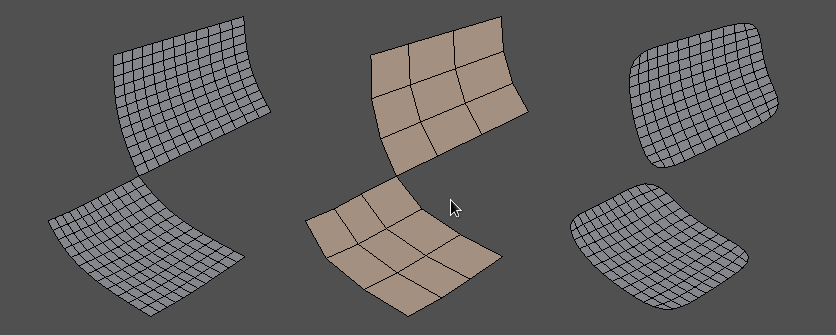
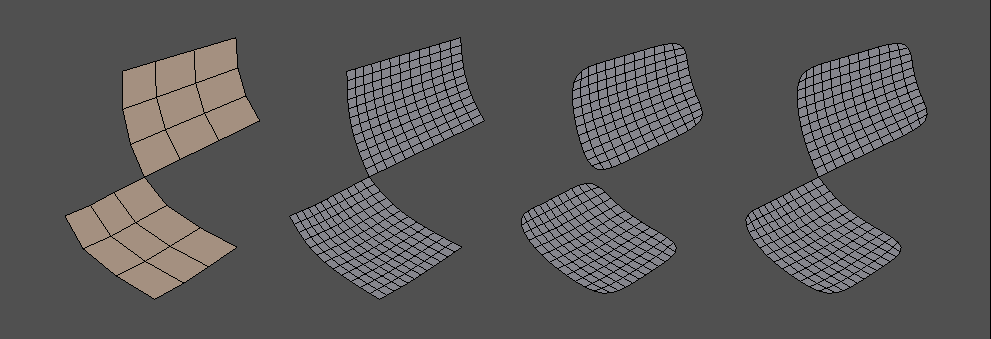
Updates to Compatibility page of documentation:     - completed RenderMan differences (FVar with creasing, chaikin, accuracy)     - revised diagram for "bowtie vertex" case with smooth corners     - amended FVar section with diagrams illustrating "corners only" vs "plus1"

diff --git a/documentation/compatibility.rst b/documentation/compatibility.rst
@@ -92,7 +92,8 @@ linear where specified by the choice applied.
 All five of Hbr's original modes of face-varying interpolation are supported
 (with minor modifications where Hbr was found to be incorrect in the presence
 of semi-sharp creasing).  An additional mode ("corners only") has also been
-added to avoid some of the undesired side-effects of some existing modes.
+added to avoid some of the undesired side-effects of some existing modes
+(illustrated below).
 
 The new values for the *"Sdc::Options::FVarLinearInterpolation"* enum and its
 equivalents for HbrMesh's InterpolateBoundaryMethod and PropagateCorners flag
@@ -116,12 +117,45 @@ is not affected by changes to other regions that may share the same vertex. So
 the behavior of a disjoint region should be well understood and predictable
 when looking at it in isolation (e.g. with "corners only" one would expect to
 see linear constraints applied where there are topological corners or infinitely
-sharp creasing applied within the region, and nowhere else).  This is not true
-of the "plus" modes, and they are named to reflect the fact that more is taken
-into account where disjoint regions meet.
+sharp creasing applied within the region, and nowhere else).
 
-Differences between the modes can be seen in the regression shapes with the
-prefix "catmark_fvar" -- which were specifically created for that purpose.
+This is not true of the "plus" modes, and they are named to reflect the fact
+that more is taken into account where disjoint regions meet.
+
+The following example illustrates some undesired effects of the "plus" modes,
+which in part motivated the addition of the new "corners only" mode.  The
+example uses the "catmark_fvar_bound0" and "catmark_fvar_bound1" shapes from
+the suite of regression shapes.  Both shapes are a simple regular 4x4 grid of
+quads with face-varying UV data partitioned into multiple disjoint regions.
+The "bound0" shape has two disjoint UV regions -- an upper and lower region --
+while the "bound1" shape further splits the lower region in two.
+
+This first figure illustrates the effect of the original "plus1" mode (which
+is also the same for "plus2"):
+
+.. image:: images/fvar_corners_plus1.png
+   :align: center
+   :width: 60%
+   :target: images/fvar_corners_plus1.png
+
+Note that the effect of splitting the lower UV region in two has the undesired
+side effect of sharpening the boundary of the upper region.  This is the result
+of the "plus1" mode making collective decisions about the sharpness of all
+face-varying boundaries at the vertex rather than decisions local to each
+region.  In both the "plus1" and "plus2" cases, all face-varying boundaries
+sharing a vertex will be sharpened if there are more than two regions meeting
+at that vertex.
+
+The second figure illustrates the effect of the new "corners only" mode:
+
+.. image:: images/fvar_corners_only.png
+   :align: center
+   :width: 60%
+   :target: images/fvar_corners_only.png
+
+As expected, the splitting of the lower region does not impact the upper
+region.  In this case the decision to sharpen a face-varying boundary is made
+based on the local topology of each region.
 
 **Vertex Interpolation Options**
 
@@ -193,11 +227,11 @@ using Hbr, the manifold restriction has also been removed.
 OpenSubdiv 3.0, therefore, supports a superset of the meshes supported by 2.x
 and earlier versions (with one known exception noted below).
 
-Non-manifold meshes that are acceptible to 3.0 however will likely not work
+Non-manifold meshes that are acceptable to 3.0 however will likely not work
 with 2.x or earlier.
 
 The one known case that 3.0 will not represent the same as 2.x is ironically
-a case that is non-manifold, and for which Hbr did make special accomodation.
+a case that is non-manifold, and for which Hbr did make special accommodation.
 
 That case occurs at a non-manifold vertex where two or more faces meet
 at a common vertex, but do not share a common edge, *and* when the boundary
@@ -209,9 +243,12 @@ illustrated below:
    :width: 80%
    :target: images/bowtie_vertex.png
 
-The cage is in the middle.  On either side is the subdivided mesh at level
-2 with boundary interpolation set to sharp corners and smooth corners on
-the left and right, respectively.
+The cage is on the left and is refined to level 2 on the right.  On the immediate
+right, boundary interpolation is set to sharp corners and the results appear
+the same for 2.x and 3.0.  The center and far right illustrate the affects of
+setting boundary interpolation to smooth corners with 2.x and 3.0 respectively.
+Note that the 2.x result allows the refined mesh (and so the limit surface) to
+split into two while the 3.0 result keeps it connected. 
 
 When Hbr encounters such vertices, regardless of the boundary mode it "splits"
 the vertex -- creating a separate instance of it for each face.  So when
@@ -271,22 +308,144 @@ section, and are listed briefly here.
 Other Differences
 +++++++++++++++++
 
+Additional differences can occur due to the differing implementations of the
+feature sets.  While RenderMan and OpenSubdiv may have shared the Hbr
+implementation at one point, even if OpenSubdiv were to make corrections to
+Hbr, they would not necessarily be picked up in RenderMan until it adopted
+the same version.  Some issues discovered in Hbr are not easily fixed, and
+so while OpenSubdiv 3.0 corrects those issues in its new implementation, it
+does not correct the Hbr implementation.
+
 **Smooth Face-Varying Interpolation with Creasing**
 
 There have been two discrepancies noted in the way that face-varying data is
-interpolated smoothly in the presence of creases:
+interpolated smoothly in the presence of creases.  Smooth face-varying
+interpolation is expected to match vertex interpolation in the interior and
+only differ along the boundaries or discontinuities where the face-varying
+topology is intentionally made to differ from the vertex topology.
 
-* Interpolation around a dart vertex
+A simple and effective way to identify discrepancies is to use the X and Y
+coordinates of vertex positions as the U and V of texture coordinates.  If
+these U and V coordinates are assigned to a face-varying channel, smooth
+interpolation of U and V is expected to exactly match interpolation of X
+and Y, regardless of the presence of any sharpness and creasing.
 
-* Lack of blending for fractional sharpness, i.e. only integer sharpness
+Two discrepancies can be seen with Hbr when superimposing the XY vertex
+interpolation with the "projected" UV face-varying interpolation.
+
+The first discrepancy occurs with interpolation around dart vertices:
+
+.. image:: images/fvar_hbr_dart.png
+   :align: center
+   :width: 80%
+   :target: images/fvar_hbr_dart.png
+
+This example shows a simple regular XY grid on the left with an interior sharp
+edge creating a dart vertex in the center.  With no asymmetry in the vertices,
+the sharpness has no asymmetric affect and the XY vertex interpolation on
+the immediate right shows the regular grid expected from refinement.  On the
+far right is the UV interpolation from Hbr, which exhibits distortion around
+the center dart vertex.
+
+The second discrepancy occurs with interpolation involving any fractional
+sharpness values.  Hbr effectively ignores any fractional sharpness value
+in its face-varying interpolation.  So edges of vertices with sharpness of
+say 2.5, will be treated as though their sharpness is 2.0 when face-varying
+values are interpolated.  Similarly, any non-zero sharpness value less than
+1.0 is treated as zero by truncation and so is essentially ignored.
+
+.. image:: images/fvar_hbr_integer.png
+   :align: center
+   :width: 80%
+   :target: images/fvar_hbr_integer.png
+
+This example shows an asymmetric 2x2 grid of quads on the left with the center
+vertex progressively sharpened from 0.5 to 1.0.  The three cases of the vertex
+smooth and sharpened are superimposed on the immediate right to display the
+three distinct interpolation results.  On the far right the interpolation from
+Hbr displays the same three cases, but only two are visibly distinct -- the
+sharpness of 0.5 being treated the same as if it were 0.0.
+
+Both of these cases are corrected in OpenSubdiv 3.0.  So smooth face-varying
+interpolation in the presence of creasing should match the expected behavior
+of the vertex interpolation, except where the face-varying topology is
+explicitly made to differ.
 
 **The Chaikin Creasing Method**
+
+At least two discrepancies are know to exist between the implementations of
+Hbr in RenderMan and OpenSubdiv 3.0:
 
 * Use of Chaikin creasing with boundaries or infinitely sharp edges
 
 * Subtle shape differences due to Hbr's use of "predictive sharpness"
 
+Fortunately this feature was only recently added to Hbr and RenderMan and is
+little used, so it is expected these differences will have little impact.
+
+The first of these is mentioned briefly in the previous section on
+compatibility between OpenSubdiv 2.x and 3.0.  A conscious decision was
+made to change the averaging of sharpness values involving infinitely
+sharp edges in order to make results more predictable and favorable.
+The effects can be seen comparing the regression shape "catmark_chaikin2".
+
+The second is more subtle and results from an oversight within Hbr's
+implementation that is not easily corrected.
+
+When determining what subdivision rule to apply from one level to the
+next, the sharpness values at the next level must be known in order to
+determine whether or not a transition between differing rules is required.
+If the rule at the next level differs from the previous, a combination of
+the two is applied.  Such a change results from the sharpness values of
+one or more edges (or the vertex itself) decaying to zero.
+
+Rather than compute the sharpness values at the next level accurately,
+Hbr "predicts" it by simply subtracting 1.0 from it, as is done with the
+uniform creasing method, and it bases decisions on that predicted result.
+This does not work for Chaikin though.  A sharpness value less than 1.0
+may not decay to 0 if it is averaged with neighboring sharpness values
+greater than 1.0.  So this sharpness prediction can result in the wrong
+rule being chosen for the next level.
+
+A typical case would have the subdivision rules for Chaikin creasing
+transition from Corner to Crease at one level, then from Crease to
+Smooth at the next.  Hbr's predictive creasing might mistakenly detect
+the transition as Corner to Smooth at one level, then after properly
+computing the sharpness values for the next level later, from Crease to
+Smooth for the next.  One of the regression shapes ("catmark_chakin1")
+was disabled from the regression suite because of this effect.  The
+differences in shape that trigger its regression failure were
+investigated and determined to be the result of this issue.
+
+From observations thus far these differences are subtle but can be
+noticeable.
+
+
 **Numerical Precision**
 
-* Improved with OpenSubdiv's ordering of weight application (most prevalent with
-  high-valence vertices)
+Since its inception, OpenSubdiv has sought to produce results that were
+numerically consistent to RenderMan.  A regression suite to ensure a
+certain level of accuracy was provided to detect any substantial deviation.
+
+At some point in the development of OpenSubdiv, the point was made that
+numerical accuracy of Hbr could be improved by changing the order of
+operations and combining the vertex with the lowest coefficient first in
+one of the subdivision rules.  This was applied more thoroughly in the
+independent implementation of 3.0 (there seemed no reason not to).  In
+most cases the relative magnitudes of the coefficients of subdivision and
+limit masks is clear so no overhead was necessary to detect them.
+
+At a certain point though, this greater accuracy came in conflict with the
+regression suite.  It turned out that high-valence vertices could not be
+computed to within the desired tolerances set within the suite.  The
+summation of many small coefficients for the adjacent vertices first, before
+the addition of the much larger coefficient for the primary vertex, allowed
+for the accumulation of precision that was being truncated by adding the
+much larger coefficient first in the Hbr implementation.  With extremely
+high valence vertices, a difference in magnitude between the most and least
+significant coefficients of several orders of magnitude is likely, and that
+has a significant impact on the single-precision floating point computations.
+
+So the improved accuracy of OpenSubdiv 3.0 can reach a magnitude that will
+not go undetected.  Whether or not this can lead to visual artifacts is
+unclear.
